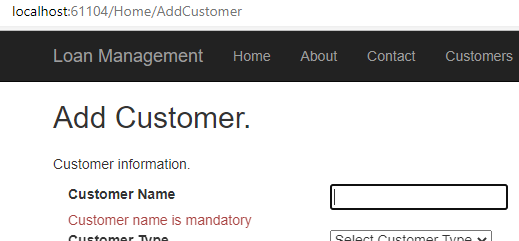
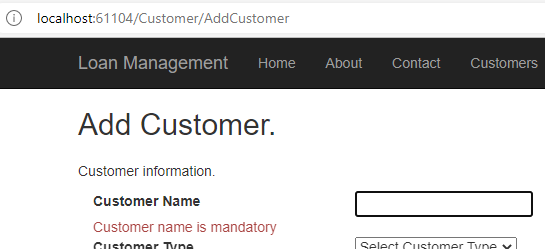
HomeController to CustomerController Refactor

diff --git a/LoanManagement.WebSite/Controllers/CustomerController.cs b/LoanManagement.WebSite/Controllers/CustomerController.cs
@@ -1,0 +1,155 @@
+using LoanManagement.WebSite.Data;
+using LoanManagement.WebSite.Models;
+using Newtonsoft.Json;
+using System;
+using System.Collections.Generic;
+using System.Linq;
+using System.Net.Http;
+using System.Threading.Tasks;
+using System.Web;
+using System.Web.Mvc;
+
+namespace LoanManagement.WebSite.Controllers
+{
+    public class CustomerController : Controller
+    {        
+
+        [HttpGet]
+        public ActionResult SearchCustomers()
+        {
+            SearchCustomersViewModel model = new SearchCustomersViewModel();
+            model.Customers = new List<CustomerItem>();
+            return View(model);
+        }
+        [HttpPost]
+        public async Task<ActionResult> SearchCustomers(SearchCustomersViewModel model)
+        {
+            model.Customers = null;
+            model.Customers = await ApiLoanDataWrapperClass.SearchCustomers(model.SearchKeword, 2, 2);
+
+            //mock
+            //CustomerItem customer = new CustomerItem { Id = 1 , CustomerName = "customerMock"};
+            //model.Customers=new List<CustomerItem> { customer};
+            return View(model);
+        }       
+
+        public async Task<ActionResult> Customers()
+        {
+            CustomerViewModel customerViewModel= await GetCustomerAsync();
+            ViewBag.Message = "Your application description page.";
+            return View(customerViewModel);
+        }
+
+        public ActionResult AddCustomer()
+        {
+            AddCustomerViewmodel addCustomerViewmodel = FillAddCustomerViewModel();
+            return View(addCustomerViewmodel);
+        }
+
+        public ActionResult AddCustomerFormCollection()
+        {
+            CustomerFormCollectionViewModel addCustomerViewmodel = new CustomerFormCollectionViewModel();
+            
+
+            return View(addCustomerViewmodel);
+        }
+        
+        [HttpPost]
+        public ActionResult AddCustomerFormCollection(FormCollection collection)
+        {
+
+            //TODO Send information to API
+            CustomerFormCollectionViewModel addCustomerViewmodel = new CustomerFormCollectionViewModel();
+            
+            addCustomerViewmodel.FullName = collection["fullName"];
+            
+            addCustomerViewmodel.Message = "Customer successfully added";
+
+            return View(addCustomerViewmodel);
+        }
+
+        [HttpPost]
+        public ActionResult AddCustomer(Customer customer)
+        {
+            AddCustomerViewmodel addCustomerViewmodel = FillAddCustomerViewModel(customer.CustomerTypeId);
+
+            if (ModelState.IsValid)
+            {
+                //TODO Send information to API
+                
+                addCustomerViewmodel.customer = new Customer();
+                addCustomerViewmodel.customer.CustomerName = customer.CustomerName;
+                addCustomerViewmodel.customer.CustomerTypeId = customer.CustomerTypeId;
+                addCustomerViewmodel.Message = "Customer successfully added";
+            }
+            else
+            {
+                addCustomerViewmodel.Message = "Customer form with errors";
+            }
+            
+            
+            return View(addCustomerViewmodel);
+        }
+        [HttpPost]
+        public ActionResult AddCustomerAjax(Customer customer)
+        {
+
+            string message = "SUCCESS adding customer from Ajax";
+            //TODO Send information to API
+            return Json(new
+            {
+                Message = message,
+                JsonRequestBehavior.AllowGet
+            });
+        }
+
+        private static AddCustomerViewmodel FillAddCustomerViewModel(int selected = 0)
+        {
+            AddCustomerViewmodel addCustomerViewmodel = new AddCustomerViewmodel();
+            //MOCK
+            List<CustomerType> customerTypes = new List<CustomerType>
+            {
+                new CustomerType
+                {
+                    CustomerTypeDescription = "Retail",
+                    CustomerTypeID = 1
+                },
+                new CustomerType
+                {
+                    CustomerTypeDescription = "Corporate",
+                    CustomerTypeID = 2
+                }
+            };
+            //MOCK
+
+            addCustomerViewmodel.selecLoanItems = new List<SelectListItem>();
+            foreach (CustomerType customerType in customerTypes)
+            {
+                addCustomerViewmodel.selecLoanItems.Add(new SelectListItem
+                {
+                    Value = customerType.CustomerTypeID.ToString(),
+                    Text = customerType.CustomerTypeDescription,
+                    Selected = customerType.CustomerTypeID == selected
+                });
+            }
+
+            return addCustomerViewmodel;
+        }
+
+        private async Task<CustomerViewModel> GetCustomerAsync()
+        {
+            CustomerViewModel customerViewModel = new CustomerViewModel();
+            customerViewModel.CustomerList = new List<Customer>();            
+
+            List<Management.Customer> response;
+            response = await ApiLoanDataWrapperClass.ObtainCustomers();
+
+            foreach (Management.Customer customerItem in response)
+            {
+                customerViewModel.CustomerList.Add(new Customer { CustomerName = customerItem.CustomerName, Id = (int)customerItem.CustomerId });
+            }
+            return customerViewModel;
+        }        
+       
+    }
+}

diff --git a/LoanManagement.WebSite/Controllers/HomeController.cs b/LoanManagement.WebSite/Controllers/HomeController.cs
@@ -17,149 +17,13 @@ namespace LoanManagement.WebSite.Controllers
         {
             return View();
         }
-
-        [HttpGet]
-        public ActionResult SearchCustomers()
-        {
-            SearchCustomersViewModel model = new SearchCustomersViewModel();
-            model.Customers = new List<CustomerItem>();
-            return View(model);
-        }
-        [HttpPost]
-        public async Task<ActionResult> SearchCustomers(SearchCustomersViewModel model)
-        {
-            model.Customers = null;
-            model.Customers = await ApiLoanDataWrapperClass.SearchCustomers(model.SearchKeword, 2, 2);
-
-            //mock
-            //CustomerItem customer = new CustomerItem { Id = 1 , CustomerName = "customerMock"};
-            //model.Customers=new List<CustomerItem> { customer};
-            return View(model);
-        }
+        
         public ActionResult About()
         {
 
-            ViewBag.Message = "Your Customers.";
+            ViewBag.Message = "Your Details page.";
             return View();
-        }
-
-        public async Task<ActionResult> Customers()
-        {
-            CustomerViewModel customerViewModel= await GetCustomerAsync();
-            ViewBag.Message = "Your application description page.";
-            return View(customerViewModel);
-        }
-
-        public ActionResult AddCustomer()
-        {
-            AddCustomerViewmodel addCustomerViewmodel = FillAddCustomerViewModel();
-            return View(addCustomerViewmodel);
-        }
-
-        public ActionResult AddCustomerFormCollection()
-        {
-            CustomerFormCollectionViewModel addCustomerViewmodel = new CustomerFormCollectionViewModel();
-            
-
-            return View(addCustomerViewmodel);
-        }
-        
-        [HttpPost]
-        public ActionResult AddCustomerFormCollection(FormCollection collection)
-        {
-
-            //TODO Send information to API
-            CustomerFormCollectionViewModel addCustomerViewmodel = new CustomerFormCollectionViewModel();
-            
-            addCustomerViewmodel.FullName = collection["fullName"];
-            
-            addCustomerViewmodel.Message = "Customer successfully added";
-
-            return View(addCustomerViewmodel);
-        }
-
-        [HttpPost]
-        public ActionResult AddCustomer(Customer customer)
-        {
-            AddCustomerViewmodel addCustomerViewmodel = FillAddCustomerViewModel(customer.CustomerTypeId);
-
-            if (ModelState.IsValid)
-            {
-                //TODO Send information to API
-                
-                addCustomerViewmodel.customer = new Customer();
-                addCustomerViewmodel.customer.CustomerName = customer.CustomerName;
-                addCustomerViewmodel.customer.CustomerTypeId = customer.CustomerTypeId;
-                addCustomerViewmodel.Message = "Customer successfully added";
-            }
-            else
-            {
-                addCustomerViewmodel.Message = "Customer form with errors";
-            }
-            
-            
-            return View(addCustomerViewmodel);
-        }
-        [HttpPost]
-        public ActionResult AddCustomerAjax(Customer customer)
-        {
-
-            string message = "SUCCESS adding customer from Ajax";
-            //TODO Send information to API
-            return Json(new
-            {
-                Message = message,
-                JsonRequestBehavior.AllowGet
-            });
-        }
-
-        private static AddCustomerViewmodel FillAddCustomerViewModel(int selected = 0)
-        {
-            AddCustomerViewmodel addCustomerViewmodel = new AddCustomerViewmodel();
-            //MOCK
-            List<CustomerType> customerTypes = new List<CustomerType>
-            {
-                new CustomerType
-                {
-                    CustomerTypeDescription = "Retail",
-                    CustomerTypeID = 1
-                },
-                new CustomerType
-                {
-                    CustomerTypeDescription = "Corporate",
-                    CustomerTypeID = 2
-                }
-            };
-            //MOCK
-
-            addCustomerViewmodel.selecLoanItems = new List<SelectListItem>();
-            foreach (CustomerType customerType in customerTypes)
-            {
-                addCustomerViewmodel.selecLoanItems.Add(new SelectListItem
-                {
-                    Value = customerType.CustomerTypeID.ToString(),
-                    Text = customerType.CustomerTypeDescription,
-                    Selected = customerType.CustomerTypeID == selected
-                });
-            }
-
-            return addCustomerViewmodel;
-        }
-
-        private async Task<CustomerViewModel> GetCustomerAsync()
-        {
-            CustomerViewModel customerViewModel = new CustomerViewModel();
-            customerViewModel.CustomerList = new List<Customer>();            
-
-            List<Management.Customer> response;
-            response = await ApiLoanDataWrapperClass.ObtainCustomers();
-
-            foreach (Management.Customer customerItem in response)
-            {
-                customerViewModel.CustomerList.Add(new Customer { CustomerName = customerItem.CustomerName, Id = (int)customerItem.CustomerId });
-            }
-            return customerViewModel;
-        }        
+        }            
 
         public ActionResult Contact()
         {
